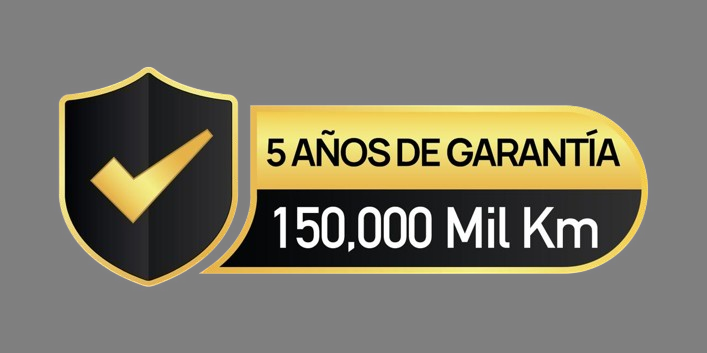
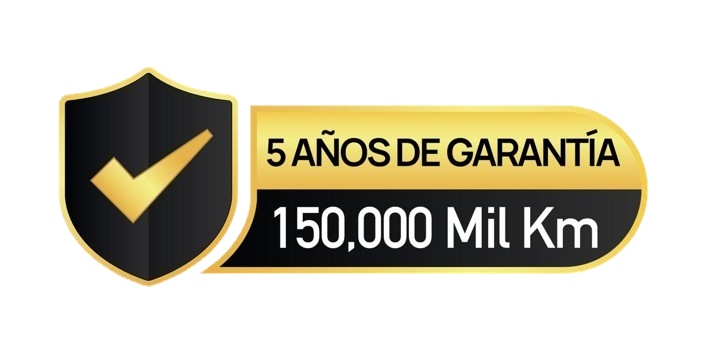
fix:added brochure and autoplay of video

diff --git a/vehicle-data.ts b/vehicle-data.ts
@@ -48,6 +48,8 @@ const vehicleData = [
           class:
             "absolute top-32 left-60 text-right text-white font-bold w-[38rem]",
         },
+        brochure: true,
+        color: "#00a3b4",
       },
     ],
     informativeGallery: {
@@ -182,6 +184,8 @@ const vehicleData = [
           text: "El x50 se destaca por su interior, al igual que por sus dimensiones exteriores, con un dise;o estilizado y detalles de alta calidad. Un espacio muy bien aprovechado, ideal para tí quien piensas en la seguridad y es amante a la tecnología.",
           class: "text-white",
         },
+        brochure: false,
+        color: "#ffffff",
       },
       {
         title: "Disfruta de sus detalles",
@@ -193,6 +197,8 @@ const vehicleData = [
           text: "El Jetour X50 ofrece comodidad con asientos revestidos en cuero cintético, y una amplia fila de asientos. Este auto es perfecto para salir y disfrutar del día y la noche, junto a tu familia o amigos.",
           class: "text-white",
         },
+        brochure: true,
+        color: "#ffffff",
       },
     ],
     informativeGallery: {
@@ -330,6 +336,8 @@ const vehicleData = [
           class:
             "absolute top-32 left-60 text-right text-black font-bold w-[38rem]",
         },
+        brochure: false,
+        color: "#ffffff",
       },
       {
         title: "ESTILO POR FUERA Y POR DENTRO",
@@ -342,6 +350,8 @@ const vehicleData = [
           class:
             "absolute top-32 left-60 text-right text-white font-bold w-[38rem]",
         },
+        brochure: true,
+        color: "#ffffff",
       },
     ],
     informativeGallery: {
@@ -492,6 +502,8 @@ const vehicleData = [
           class:
             "absolute top-32 left-60 text-right text-white font-bold w-[38rem]",
         },
+        brochure: false,
+        color: "#00a3b4",
       },
       {
         title: "TECNOLOGÍA ESPACIAL",
@@ -504,6 +516,8 @@ const vehicleData = [
           class:
             "absolute top-32 left-60 text-right text-white font-bold w-[38rem]",
         },
+        brochure: false,
+        color: "#00a3b4",
       },
     ],
     informativeGallery: {

diff --git a/src/components/ui/landing/sliced-wide-image.tsx b/src/components/ui/landing/sliced-wide-image.tsx
@@ -1,14 +1,25 @@
 import Image from "next/image";
 import { ReactNode } from "react";
 import { usePrimaryColor } from "../color-context";
+import { Download } from "lucide-react";
 
 interface SlicedWideImageProps {
   images: string[];
   title: string;
+  model: string;
+  color: string;
   children?: ReactNode;
+  brochure?: boolean;
 }
 
-const SlicedWideImage = ({ images, title, children }: SlicedWideImageProps) => {
+const SlicedWideImage = ({
+  images,
+  title,
+  model,
+  color,
+  children,
+  brochure,
+}: SlicedWideImageProps) => {
   const primaryColor = usePrimaryColor();
 
   return (
@@ -23,7 +34,7 @@ const SlicedWideImage = ({ images, title, children }: SlicedWideImageProps) => {
         >
           <Image
             className="w-full h-full object-cover"
-            style={{ objectPosition: "center" }}
+            style={{ objectPosition: "-30rem" }}
             src={images[0]}
             width={800}
             height={500}
@@ -40,7 +51,7 @@ const SlicedWideImage = ({ images, title, children }: SlicedWideImageProps) => {
         >
           <Image
             className="w-full h-full object-cover"
-            style={{ objectPosition: "center" }}
+            style={{ objectPosition: "30rem" }}
             src={images[1]}
             width={800}
             height={500}
@@ -58,6 +69,16 @@ const SlicedWideImage = ({ images, title, children }: SlicedWideImageProps) => {
         <div className="absolute text-right z-10 top-[-7rem] lg:left-[3rem] lg:w-[40rem] md:w-[20rem] md:left-[0rem] left-[2rem] w-32  ">
           {children}
         </div>
+
+        {brochure && (
+          <div
+            className="flex flex-row gap-4 items-center absolute bottom-5 right-5 font-bold text-2xl"
+            style={{ color: color }}
+          >
+            <Download />
+            <h1 className="font-bold">Brochure {model}</h1>
+          </div>
+        )}
       </figure>
     </section>
   );

diff --git a/src/components/ui/book-drive.tsx b/src/components/ui/book-drive.tsx
@@ -1,6 +1,9 @@
 import clsx from "clsx";
+import { usePrimaryColor } from "./color-context";
 
-const BookDrive = ({ color, fixed }: { color: string; fixed?: boolean }) => {
+const BookDrive = ({ fixed }: { fixed?: boolean }) => {
+  const primaryColor = usePrimaryColor();
+
   return (
     <div
       className={clsx(
@@ -12,16 +15,16 @@ const BookDrive = ({ color, fixed }: { color: string; fixed?: boolean }) => {
     >
       <div
         className={`w-2 h-12 -skew-x-[20deg] md:-skew-x-12`}
-        style={{ backgroundColor: color }}
+        style={{ backgroundColor: primaryColor }}
       ></div>
       <div
         className={`w-2 h-12 -skew-x-[20deg] md:-skew-x-12`}
-        style={{ backgroundColor: color }}
+        style={{ backgroundColor: primaryColor }}
       ></div>
       <div
         className="ml-[-8px] md:ml-[-3px] w-full flex flex-row justify-center items-center px-8"
         style={{
-          backgroundColor: color,
+          backgroundColor: primaryColor,
           clipPath: "polygon(3.5% 0%, 100% 0%, 100% 100%, 0% 100%)",
         }}
       >

diff --git a/src/app/(modules)/landing/[id]/page.tsx b/src/app/(modules)/landing/[id]/page.tsx
@@ -64,7 +64,9 @@ export default function LandingPage() {
 
   return (
     <>
-      <BookDrive color="#00a3b4" fixed />
+      <ColorContext.Provider value={carData.primaryColor}>
+        <BookDrive fixed />
+      </ColorContext.Provider>
       <Image
         src="/img/WhatsappLogo.png"
         height={100}
@@ -156,6 +158,9 @@ export default function LandingPage() {
             <SlicedWideImage
               title={sectionData.title}
               images={sectionData.images}
+              model={id?.toUpperCase() ?? ""}
+              color={sectionData.color}
+              brochure={sectionData.brochure}
             >
               <p className={`${sectionData.text.class}`}>
                 {sectionData.text.text}

diff --git a/src/components/ui/landing/video-player.tsx b/src/components/ui/landing/video-player.tsx
@@ -9,6 +9,9 @@ const VideoPlayer = ({ video }: VideoPlayer) => {
         src={video}
         typeof="video/mp4"
         controls
+        muted
+        loop
+        autoPlay
         className="w-[70%] h-[70%] mt-20 object-cover"
       ></video>
     </section>
